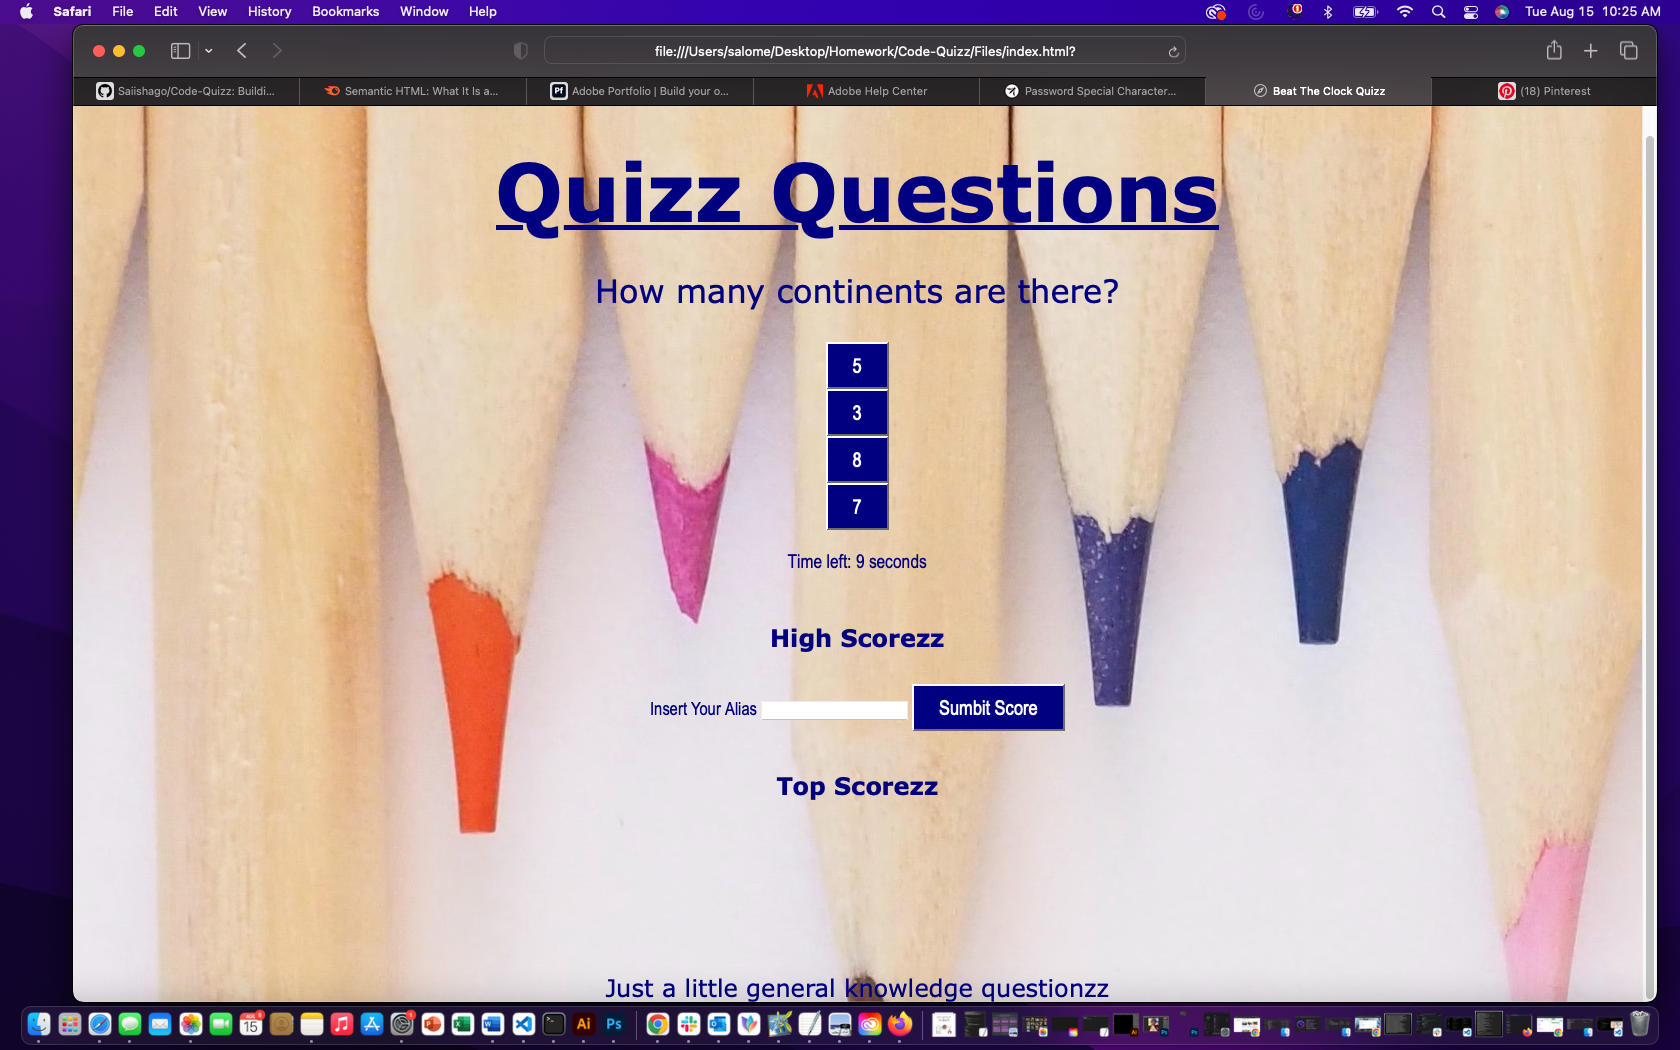
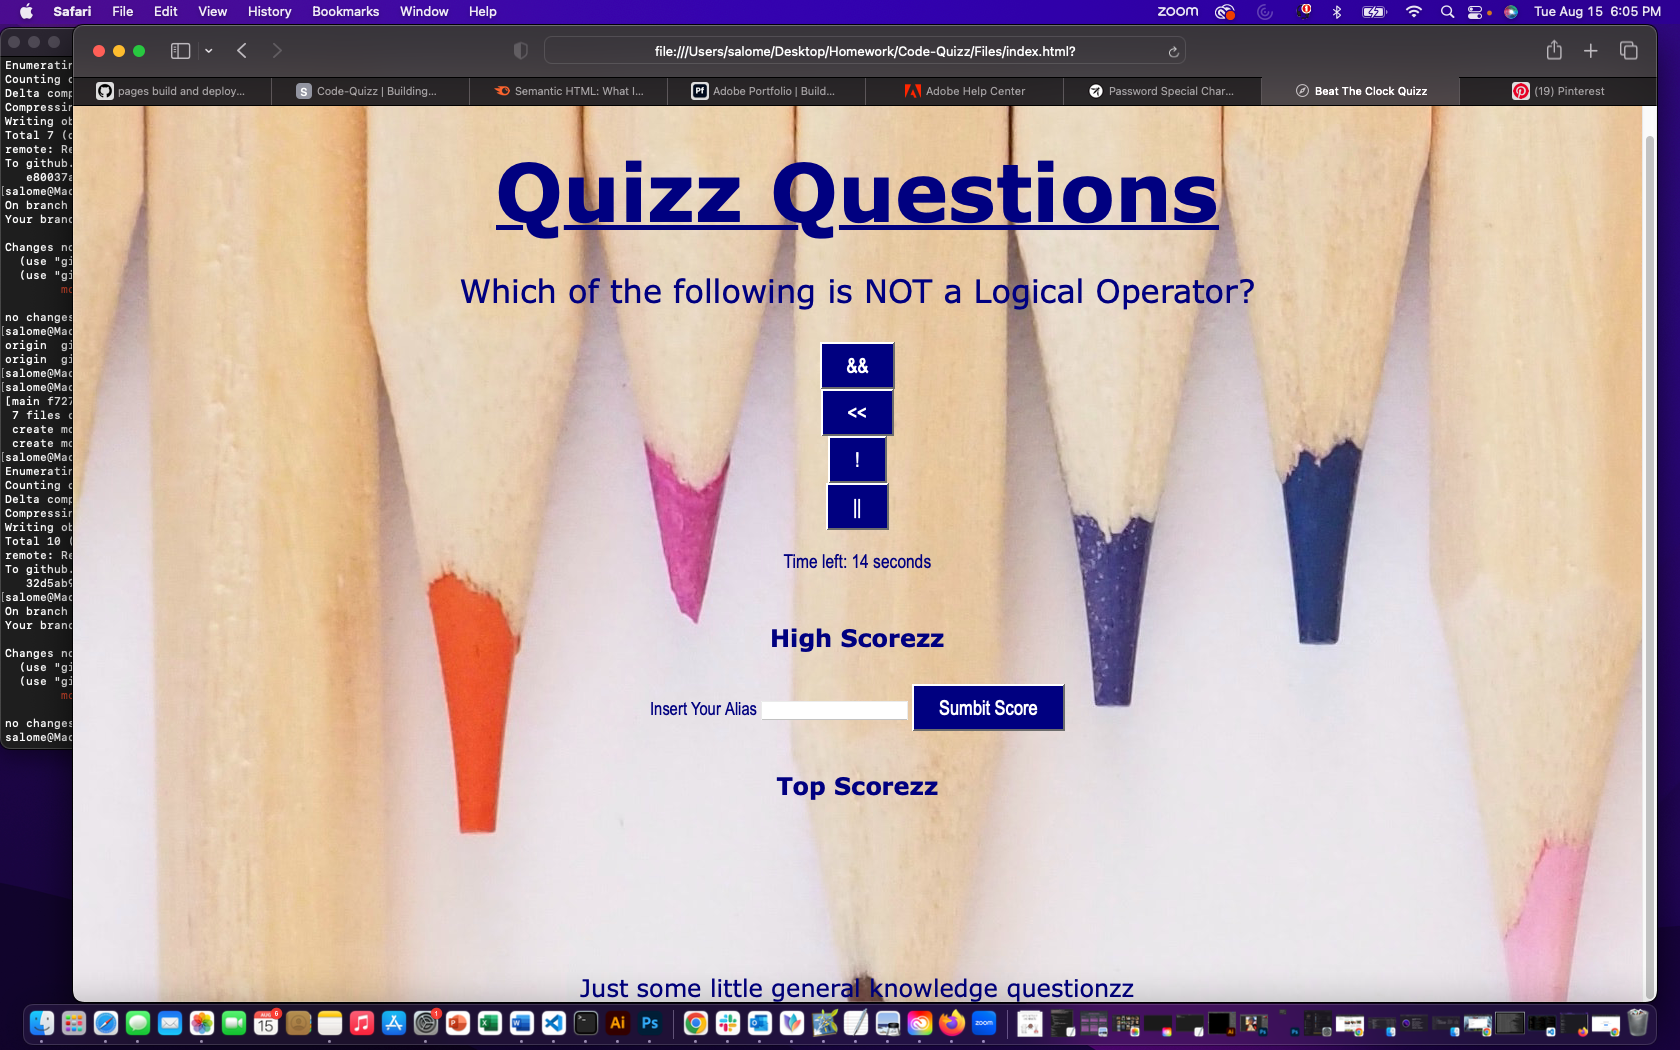
Updated/Moved Files and README.md

diff --git a/index.html b/index.html
@@ -33,7 +33,7 @@
      <ul id="score-list"></ul>
    </div>
   </div>
-  <footer>Just a little general knowledge questionzz</footer>
+  <footer>Just some little general knowledge questionzz</footer>
 
   <script src="./script.js"></script>
 </body>
